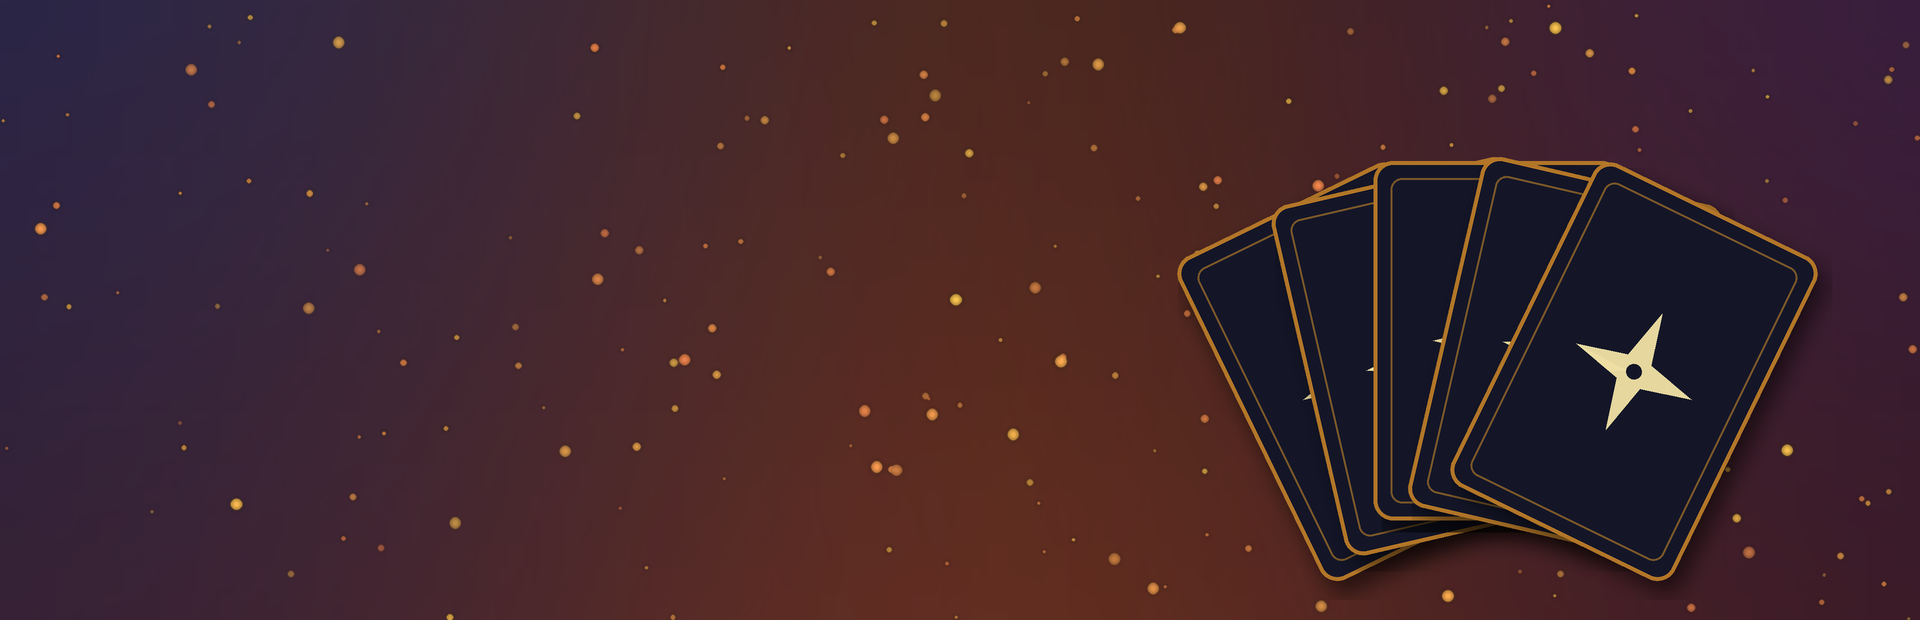
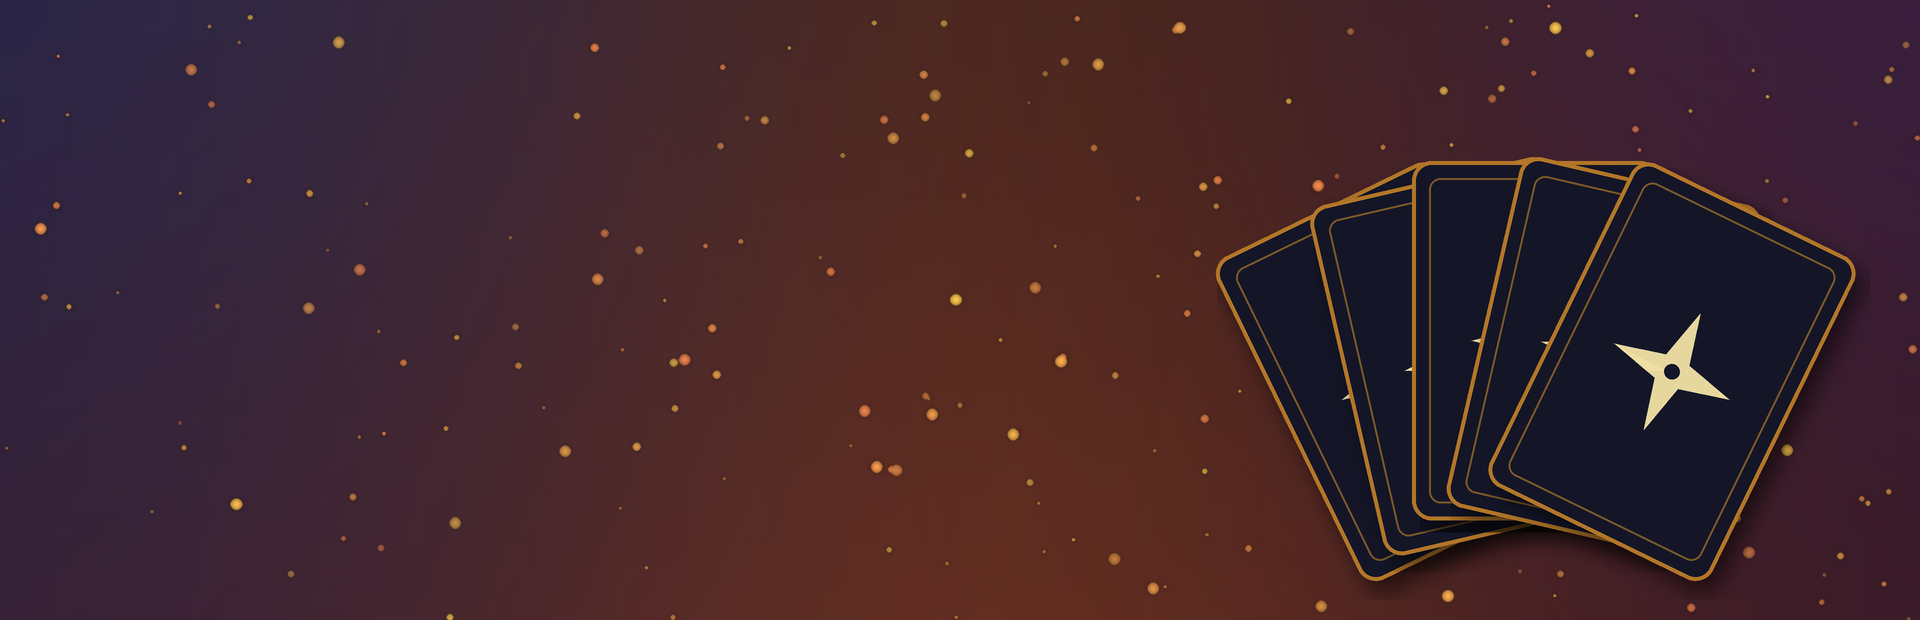
Steam art: original Project Descension: Wildcard emblem
Gold plate with ember panel, blade crest, violet gems and a Wildcard ribbon,
drawn in code (launcher/steam-art/emblem.py). Used as the logo and on the cover
and header; the icon is a card with the emblem's gem.

Claude-Session: https://claude.ai/code/session_014MUwBHuZUaiNx6uCAhXtUs

Changed region(s): [[0.5938, 0.2452, 0.9688, 0.95]]

diff --git a/launcher/steam-art/emblem.py b/launcher/steam-art/emblem.py
@@ -1,0 +1,222 @@
+"""The Project Descension: Wildcard emblem (original artwork), drawn with Pillow. Used by make_steam_art.py."""
+import math
+import random
+
+from PIL import Image, ImageChops, ImageDraw, ImageFilter, ImageFont
+
+GOLD = [(255, 244, 196), (240, 200, 110), (196, 140, 52), (120, 74, 22), (214, 160, 70), (255, 230, 160)]
+
+
+def vgrad(w, h, stops):
+    col = Image.new("RGB", (1, h))
+    n = len(stops) - 1
+    for y in range(h):
+        t = y / max(1, h - 1) * n
+        i = min(int(t), n - 1)
+        f = t - i
+        col.putpixel((0, y), tuple(int(a + (b - a) * f) for a, b in zip(stops[i], stops[i + 1])))
+    return col.resize((w, h))
+
+
+def metal(mask, stops=GOLD, bevel=10, light=1.0):
+    """Gold fill shaped by mask, with a bevelled edge lit from the top left."""
+    w, h = mask.size
+    base = vgrad(w, h, stops).convert("RGBA")
+    height = mask.filter(ImageFilter.GaussianBlur(bevel))
+    hi = ImageChops.subtract(height, ImageChops.offset(height, int(bevel * 0.5), int(bevel * 0.5)))
+    lo = ImageChops.subtract(ImageChops.offset(height, int(bevel * 0.5), int(bevel * 0.5)), height)
+    white = Image.new("RGBA", (w, h), (255, 250, 225, 0))
+    white.putalpha(hi.point(lambda v: min(255, int(v * 4 * light))))
+    dark = Image.new("RGBA", (w, h), (50, 25, 5, 0))
+    dark.putalpha(lo.point(lambda v: min(255, int(v * 4 * light))))
+    base.alpha_composite(white)
+    base.alpha_composite(dark)
+    base.putalpha(mask)
+    return base
+
+
+def shape(size, draw_fn):
+    m = Image.new("L", size, 0)
+    draw_fn(ImageDraw.Draw(m))
+    return m
+
+
+def plate_points(cx, cy, w, h, point):
+    """Long plate with chamfered corners and pointed ends."""
+    x0, x1, y0, y1 = cx - w / 2, cx + w / 2, cy - h / 2, cy + h / 2
+    c = h * 0.22
+    return [(x0 + c, y0), (cx - w * 0.08, y0), (cx, y0 - h * 0.1), (cx + w * 0.08, y0), (x1 - c, y0),
+            (x1, cy - h * 0.18), (x1 + point, cy), (x1, cy + h * 0.18), (x1 - c, y1), (cx + w * 0.1, y1),
+            (cx, y1 + h * 0.08), (cx - w * 0.1, y1), (x0 + c, y1), (x0, cy + h * 0.18), (x0 - point, cy),
+            (x0, cy - h * 0.18)]
+
+
+def inset(points, cx, cy, fx, fy):
+    return [(cx + (x - cx) * fx, cy + (y - cy) * fy) for x, y in points]
+
+
+def gem(size, colour):
+    """A faceted gem: four-point star cut, lit from the top left."""
+    s = size
+    img = Image.new("RGBA", (s, s), (0, 0, 0, 0))
+    d = ImageDraw.Draw(img)
+    c = s / 2
+    outer = [(c, 0), (s, c), (c, s), (0, c)]
+    d.polygon(outer, fill=tuple(int(v * 0.45) for v in colour) + (255,))
+    facets = [((c, 0), (c, c), (0, c), 1.35), ((c, 0), (s, c), (c, c), 1.0), ((0, c), (c, c), (c, s), 0.7),
+              ((c, c), (s, c), (c, s), 0.5)]
+    for a, b, e, k in facets:
+        d.polygon([a, b, e], fill=tuple(min(255, int(v * k)) for v in colour) + (255,))
+    d.polygon([(c, s * 0.2), (s * 0.8, c), (c, s * 0.8), (s * 0.2, c)], fill=tuple(min(255, int(v * 1.1)) for v in colour) + (255,))
+    d.ellipse((s * 0.3, s * 0.28, s * 0.42, s * 0.4), fill=(255, 255, 255, 220))
+    sparkle = img.copy().filter(ImageFilter.GaussianBlur(s * 0.12))
+    out = Image.new("RGBA", (s * 2, s * 2), (0, 0, 0, 0))
+    glowc = Image.new("RGBA", (s * 2, s * 2), colour + (0,))
+    m = Image.new("L", (s * 2, s * 2), 0)
+    ImageDraw.Draw(m).polygon([(s, s * 0.3), (s * 1.7, s), (s, s * 1.7), (s * 0.3, s)], fill=150)
+    glowc.putalpha(m.filter(ImageFilter.GaussianBlur(s * 0.3)))
+    out.alpha_composite(glowc)
+    out.alpha_composite(sparkle, (s // 2, s // 2))
+    out.alpha_composite(img, (s // 2, s // 2))
+    return out
+
+
+def gold_text(text, font, stroke, stops=GOLD[:4], bevel=None):
+    l, t, r, b = font.getbbox(text, stroke_width=stroke)
+    pad = stroke * 4 + 20
+    w, h = r - l + pad * 2, b - t + pad * 2
+    pos = (pad - l, pad - t)
+    fill_mask = shape((w, h), lambda d: d.text(pos, text, font=font, fill=255))
+    edge_mask = shape((w, h), lambda d: d.text(pos, text, font=font, fill=255, stroke_width=stroke, stroke_fill=255))
+    img = Image.new("RGBA", (w, h), (0, 0, 0, 0))
+    shadow = Image.new("RGBA", (w, h), (0, 0, 0, 0))
+    shadow.putalpha(edge_mask.filter(ImageFilter.GaussianBlur(stroke * 1.5)).point(lambda v: int(v * 0.8)))
+    img.alpha_composite(shadow, (0, 0))
+    edge = Image.new("RGBA", (w, h), (36, 16, 4, 255))
+    edge.putalpha(edge_mask)
+    img.alpha_composite(edge)
+    img.alpha_composite(metal(fill_mask, [(255, 248, 210), (246, 206, 112), (190, 128, 40), (240, 186, 90)],
+                              bevel or max(2, stroke // 2)))
+    return img
+
+
+def emblem(width, fonts):
+    """Returns the emblem as RGBA, about width wide (transparent background)."""
+    W = width
+    H = int(W * 0.62)
+    img = Image.new("RGBA", (W, H), (0, 0, 0, 0))
+    cx, cy = W / 2, H * 0.47
+    pw, ph = W * 0.76, H * 0.42
+    point = W * 0.07
+    rng = random.Random(7)
+
+    # blades behind the plate: original wing/blade fan
+    blades = Image.new("L", (W, H), 0)
+    d = ImageDraw.Draw(blades)
+    for side in (-1, 1):
+        for i, (ang, length, thick) in enumerate([(-38, 0.20, 0.030), (-14, 0.24, 0.034), (12, 0.20, 0.030),
+                                                   (34, 0.15, 0.026)]):
+            a = math.radians(ang)
+            bx = cx + side * pw * 0.38
+            by = cy + ph * 0.05
+            tipx = bx + side * math.cos(a) * W * length
+            tipy = by + math.sin(a) * W * length * 0.9
+            nx, ny = -math.sin(a) * W * thick, math.cos(a) * W * thick
+            d.polygon([(bx - nx, by - ny), (tipx, tipy), (bx + nx, by + ny)], fill=255)
+    # crest blades above
+    for ang, length in ((-90, 0.17), (-112, 0.12), (-68, 0.12)):
+        a = math.radians(ang)
+        bx, by = cx, cy - ph * 0.45
+        tipx, tipy = bx + math.cos(a) * W * length, by + math.sin(a) * W * length
+        nx, ny = -math.sin(a) * W * 0.024, math.cos(a) * W * 0.024
+        d.polygon([(bx - nx, by - ny), (tipx, tipy), (bx + nx, by + ny)], fill=255)
+    img.alpha_composite(metal(blades, [(250, 226, 160), (200, 146, 60), (110, 66, 20)], bevel=W // 220))
+
+    # outer plate
+    pts = plate_points(cx, cy, pw, ph, point)
+    outer = shape((W, H), lambda dd: dd.polygon(pts, fill=255))
+    shadow = Image.new("RGBA", (W, H), (0, 0, 0, 0))
+    shadow.putalpha(outer.filter(ImageFilter.GaussianBlur(W // 60)).point(lambda v: int(v * 0.7)))
+    img.alpha_composite(shadow, (0, W // 120))
+    img.alpha_composite(metal(outer, bevel=W // 110))
+
+    # inner rim and ember panel
+    rim = inset(pts, cx, cy, 0.955, 0.86)
+    panel = inset(pts, cx, cy, 0.93, 0.78)
+    rim_mask = shape((W, H), lambda dd: dd.polygon(rim, fill=255))
+    img.alpha_composite(metal(rim_mask, [(120, 70, 20), (230, 180, 90), (90, 50, 14)], bevel=W // 300))
+    rivet = metal(shape((W // 60, W // 60), lambda dd: dd.ellipse((1, 1, W // 60 - 2, W // 60 - 2), fill=255)),
+                  bevel=max(1, W // 600))
+    ring = inset(pts, cx, cy, 0.985, 0.93)
+    for (x0, y0), (x1, y1) in zip(ring, ring[1:] + ring[:1]):
+        steps = int(math.hypot(x1 - x0, y1 - y0) // (W * 0.06))
+        for k in range(1, steps):
+            x, y = x0 + (x1 - x0) * k / steps, y0 + (y1 - y0) * k / steps
+            img.alpha_composite(rivet, (int(x - rivet.width / 2), int(y - rivet.height / 2)))
+    panel_mask = shape((W, H), lambda dd: dd.polygon(panel, fill=255))
+    ember = vgrad(W, H, [(48, 8, 10), (128, 26, 12), (190, 60, 18), (96, 18, 10)]).convert("RGBA")
+    heat = Image.new("RGBA", (W, H), (0, 0, 0, 0))
+    hd = ImageDraw.Draw(heat)
+    for _ in range(int(W * 0.6)):
+        x, y = rng.uniform(cx - pw / 2, cx + pw / 2), rng.uniform(cy - ph / 2, cy + ph / 2)
+        r = rng.uniform(W * 0.004, W * 0.03)
+        hd.ellipse((x - r, y - r * 0.6, x + r, y + r * 0.6), fill=(255, rng.randint(90, 160), 40, rng.randint(10, 40)))
+    ember.alpha_composite(heat.filter(ImageFilter.GaussianBlur(W // 120)))
+    inner_shadow = ImageChops.invert(panel_mask).filter(ImageFilter.GaussianBlur(W // 70))
+    dark = Image.new("RGBA", (W, H), (20, 4, 4, 0))
+    dark.putalpha(inner_shadow.point(lambda v: min(255, int(v * 1.6))))
+    ember.alpha_composite(dark)
+    ember.putalpha(panel_mask)
+    img.alpha_composite(ember)
+
+    # gems: crest and the two points
+    g = gem(int(W * 0.075), (150, 90, 230))
+    img.alpha_composite(g, (int(cx - g.width / 2), int(cy - ph * 0.62 - g.height / 2)))
+    sg = gem(int(W * 0.042), (150, 90, 230))
+    for side in (-1, 1):
+        x = cx + side * (pw / 2 + point * 0.45)
+        img.alpha_composite(sg, (int(x - sg.width / 2), int(cy - sg.height / 2)))
+
+    # text
+    title_font = fonts["title"]
+    big = int(H * 0.2)
+    while True:
+        line = gold_text("DESCENSION", ImageFont.truetype(title_font, big), max(3, big // 14))
+        if line.width <= pw * 0.98:
+            break
+        big = int(big * 0.95)
+    small = gold_text("PROJECT", ImageFont.truetype(title_font, int(big * 0.5)), max(2, big // 20))
+    img.alpha_composite(small, (int(cx - small.width / 2), int(cy - ph * 0.40 - small.height * 0.12)))
+    img.alpha_composite(line, (int(cx - line.width / 2), int(cy - line.height * 0.36)))
+
+    # ribbon
+    rw, rh = pw * 0.56, H * 0.12
+    ry = cy + ph * 0.5 + rh * 0.15
+    tail = rw * 0.14
+    ribbon_pts = [(cx - rw / 2, ry - rh / 2), (cx + rw / 2, ry - rh / 2), (cx + rw / 2 + tail, ry - rh * 0.1),
+                  (cx + rw / 2 + tail * 0.6, ry + rh * 0.12), (cx + rw / 2 + tail * 1.1, ry + rh * 0.62),
+                  (cx + rw / 2, ry + rh / 2), (cx - rw / 2, ry + rh / 2), (cx - rw / 2 - tail * 1.1, ry + rh * 0.62),
+                  (cx - rw / 2 - tail * 0.6, ry + rh * 0.12), (cx - rw / 2 - tail, ry - rh * 0.1)]
+    rmask = shape((W, H), lambda dd: dd.polygon(ribbon_pts, fill=255))
+    rshadow = Image.new("RGBA", (W, H), (0, 0, 0, 0))
+    rshadow.putalpha(rmask.filter(ImageFilter.GaussianBlur(W // 90)).point(lambda v: int(v * 0.7)))
+    img.alpha_composite(rshadow, (0, W // 150))
+    edge_mask = rmask
+    img.alpha_composite(metal(edge_mask, [(240, 200, 120), (150, 96, 30)], bevel=W // 300))
+    inner = shape((W, H), lambda dd: dd.polygon(inset(ribbon_pts, cx, ry, 0.97, 0.78), fill=255))
+    cloth = metal(inner, [(96, 52, 150), (58, 26, 102), (34, 14, 64)], bevel=W // 200, light=0.6)
+    img.alpha_composite(cloth)
+    sub_font = ImageFont.truetype(fonts["sub"], int(rh * 0.5))
+    try:
+        sub_font.set_variation_by_axes([700])
+    except Exception:
+        pass
+    word = "WILDCARD"
+    spaced = " ".join(word)
+    l, t, r, b = sub_font.getbbox(spaced)
+    td = ImageDraw.Draw(img)
+    td.text((cx - (r - l) / 2 - l + 2, ry - (b - t) / 2 - t + 2), spaced, font=sub_font, fill=(20, 8, 30, 200))
+    td.text((cx - (r - l) / 2 - l, ry - (b - t) / 2 - t), spaced, font=sub_font, fill=(250, 232, 190, 255))
+
+    bbox = img.getbbox()
+    return img.crop(bbox)

diff --git a/launcher/steam-art/make_steam_art.py b/launcher/steam-art/make_steam_art.py
@@ -1,5 +1,5 @@
 #!/usr/bin/env python3
-"""Draws the Steam library artwork for the Linux launcher's --add-to-steam (original art: no game assets).
+"""Draws the Steam library artwork, built around the Project Descension: Wildcard emblem (emblem.py), for the Linux launcher's --add-to-steam (original art: no game assets).
 
   python3 make_steam_art.py FONT_DIR OUT_DIR
 
@@ -13,6 +13,9 @@ import sys
 from pathlib import Path
 
 from PIL import Image, ImageDraw, ImageFilter, ImageFont
+
+sys.path.insert(0, str(Path(__file__).resolve().parent))
+from emblem import emblem, gem  # noqa: E402
 
 FONTS, OUT = Path(sys.argv[1]), Path(sys.argv[2])
 TITLE_FONT = FONTS / "CinzelDecorative-Bold.ttf"
@@ -164,37 +167,45 @@ def save(img, name, size):
     print(name, size)
 
 
+def logo(width):
+    return emblem(width, {"title": str(TITLE_FONT), "sub": str(SUB_FONT)})
+
+
 def main():
     OUT.mkdir(parents=True, exist_ok=True)
     s = 2  # draw at 2x, then scale down
 
     w, h = 600 * s, 900 * s
     img = background(w, h, 1)
-    fan(img, (w * 0.5, h * 0.36), int(w * 0.3), 5, 24, h * 0.04, s)
-    t = title_block(int(w * 0.9), s * 0.9)
-    img.alpha_composite(t, ((w - t.width) // 2, int(h * 0.62)))
+    fan(img, (w * 0.5, h * 0.3), int(w * 0.28), 5, 24, h * 0.04, s)
+    e = logo(int(w * 1.0))
+    e = e.resize((int(w * 0.96), int(e.height * w * 0.96 / e.width)), Image.LANCZOS)
+    img.alpha_composite(e, ((w - e.width) // 2, int(h * 0.56)))
     save(img, "portrait.png", (600, 900))
 
     w, h = 920 * s, 430 * s
     img = background(w, h, 2)
-    fan(img, (w * 0.235, h * 0.52), int(h * 0.4), 3, 18, h * 0.04, s)
-    t = title_block(int(w * 0.56), s * 0.9)
-    img.alpha_composite(t, (int(w * 0.39), (h - t.height) // 2))
+    fan(img, (w * 0.14, h * 0.55), int(h * 0.36), 3, 18, h * 0.04, s)
+    e = logo(int(w * 0.8))
+    e = e.resize((int(e.width * h * 0.86 / e.height), int(h * 0.86)), Image.LANCZOS)
+    img.alpha_composite(e, (int(w * 0.6 - e.width / 2), (h - e.height) // 2))
     save(img, "header.png", (920, 430))
 
     w, h = 1920 * s, 620 * s  # hero: no text, Steam puts the logo over it
     img = background(w, h, 3, 22000)
-    fan(img, (w * 0.78, h * 0.55), int(h * 0.4), 5, 26, h * 0.05, s)
+    fan(img, (w * 0.8, h * 0.55), int(h * 0.4), 5, 26, h * 0.05, s)
     save(img, "hero.png", (1920, 620))
 
-    t = title_block(1280 * s, s * 1.1)
-    logo = Image.new("RGBA", (t.width + 40, t.height + 40), (0, 0, 0, 0))
-    logo.alpha_composite(t, (20, 20))
-    save(logo, "logo.png", (logo.width // s, logo.height // s))
+    e = logo(1600)
+    save(e, "logo.png", (800, int(e.height * 800 / e.width)))
 
     n = 512
     icon = Image.new("RGBA", (n, n), (0, 0, 0, 0))
-    face = card(int(n * 0.66), int(n * 0.94), 2.5)
+    face = card(int(n * 0.68), int(n * 0.96), 2.5)
+    fd = ImageDraw.Draw(face)
+    fd.rectangle((face.width * 0.2, face.height * 0.3, face.width * 0.8, face.height * 0.7), fill=(20, 22, 40, 255))
+    g = gem(int(face.width * 0.62), (160, 96, 240))
+    face.alpha_composite(g, ((face.width - g.width) // 2, (face.height - g.height) // 2))
     icon.alpha_composite(face, ((n - face.width) // 2, (n - face.height) // 2))
     save(icon, "icon.png", (256, 256))
 
